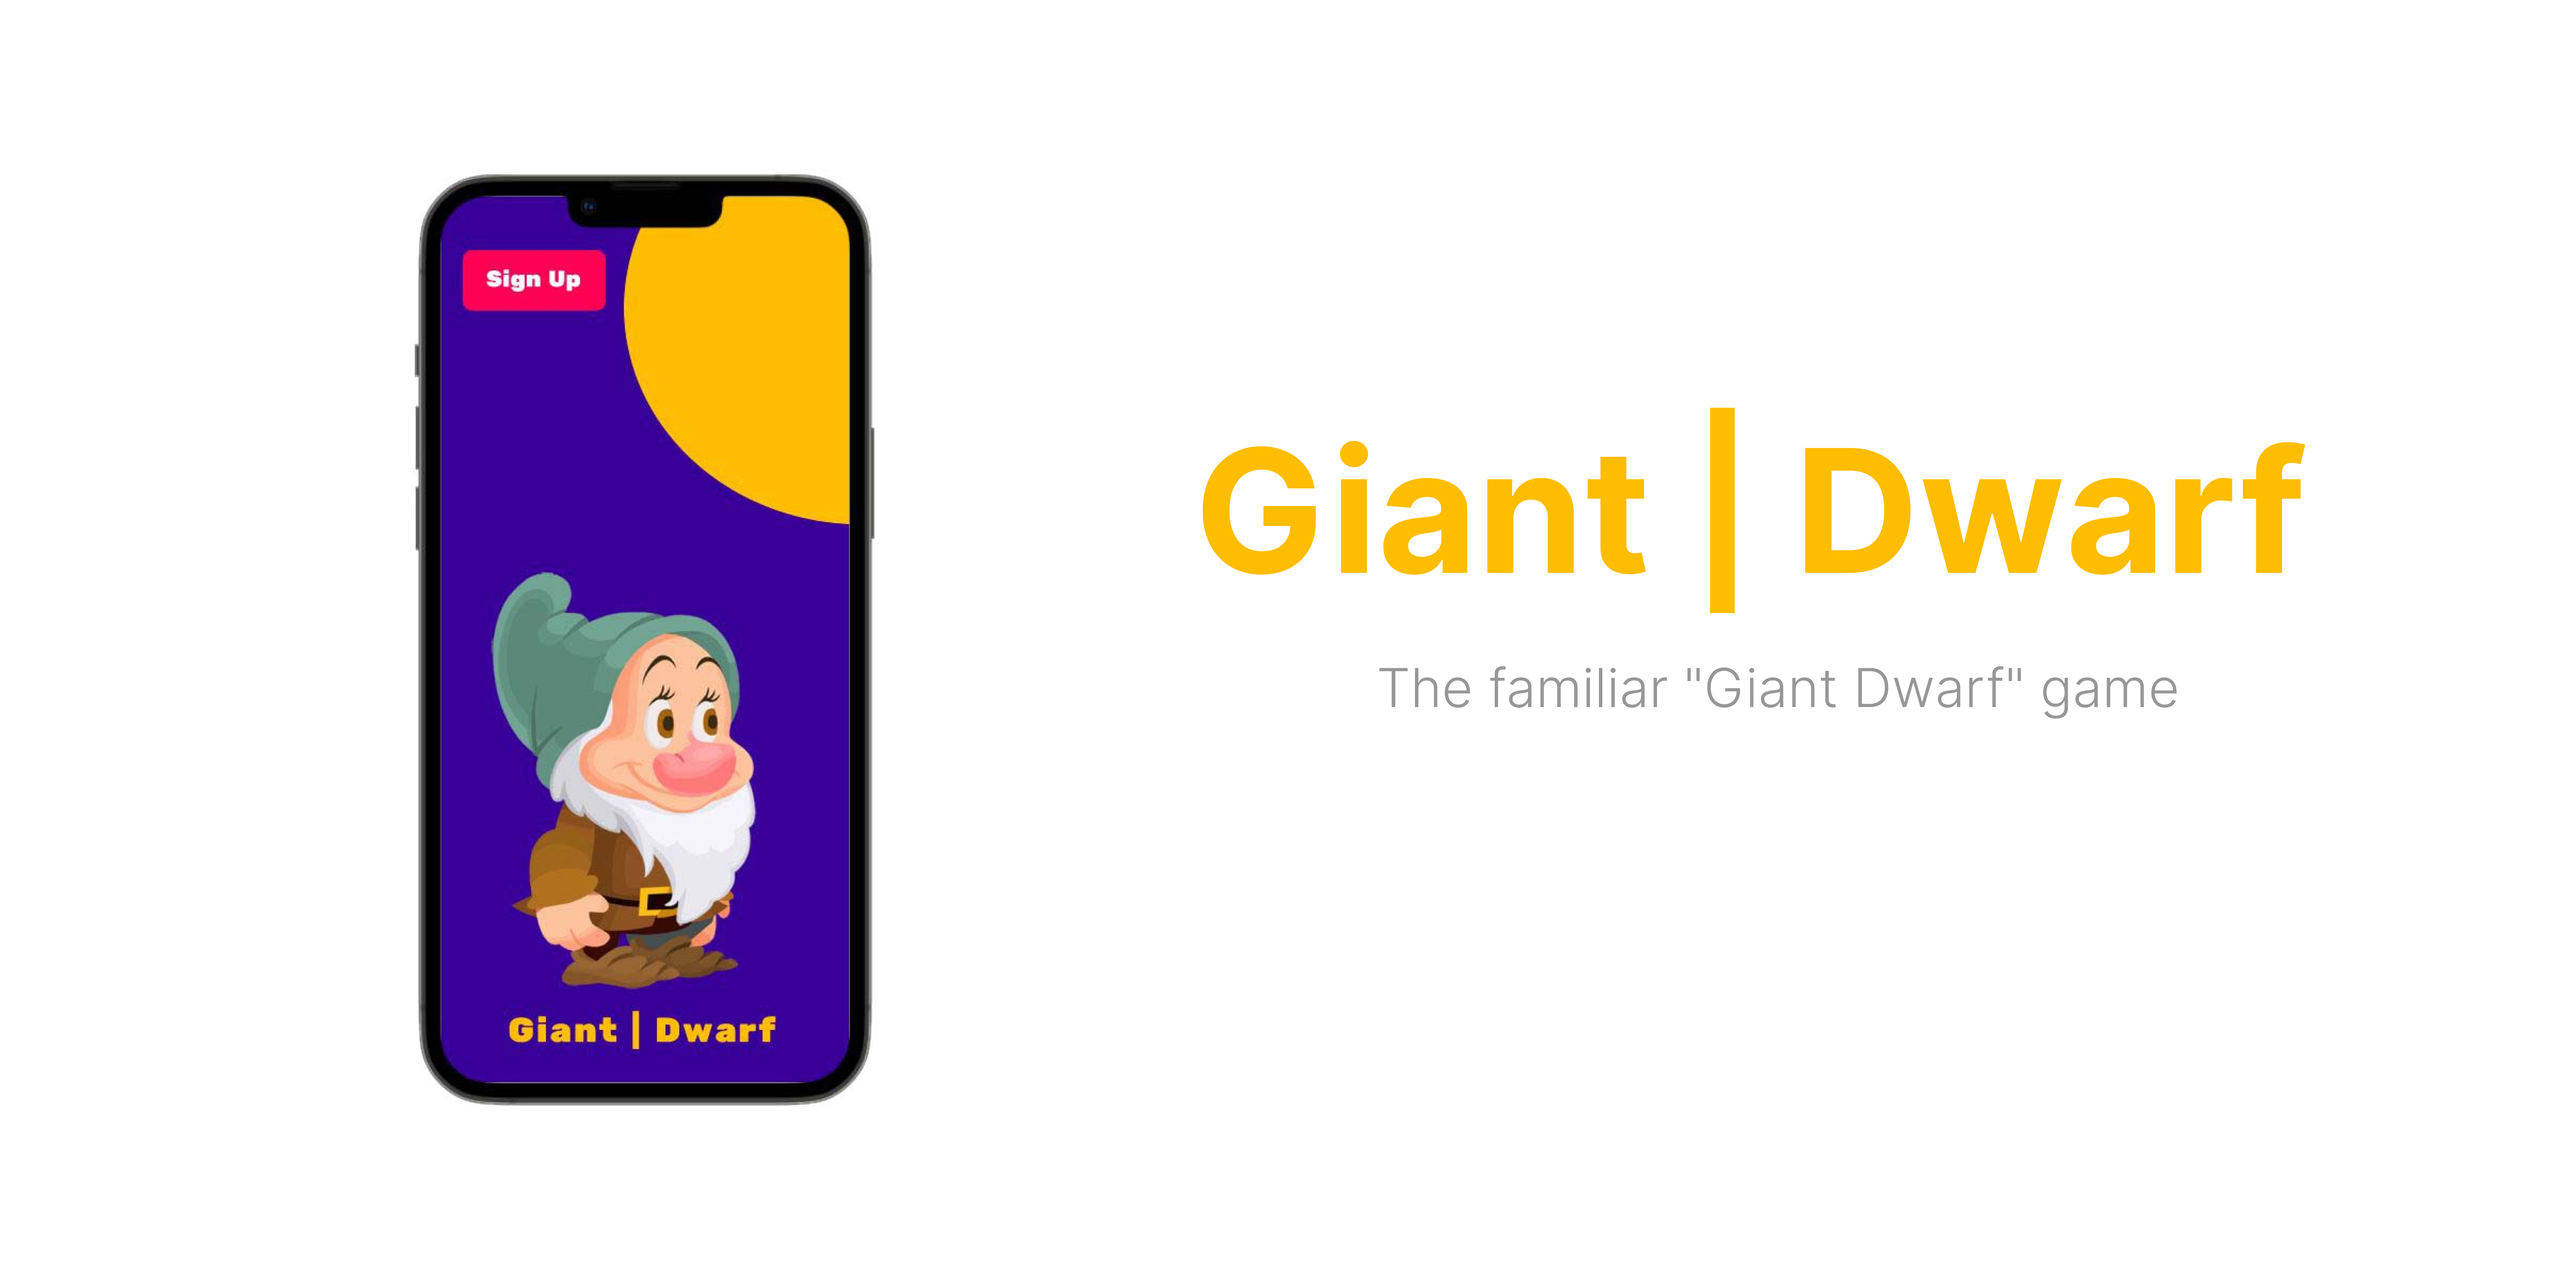
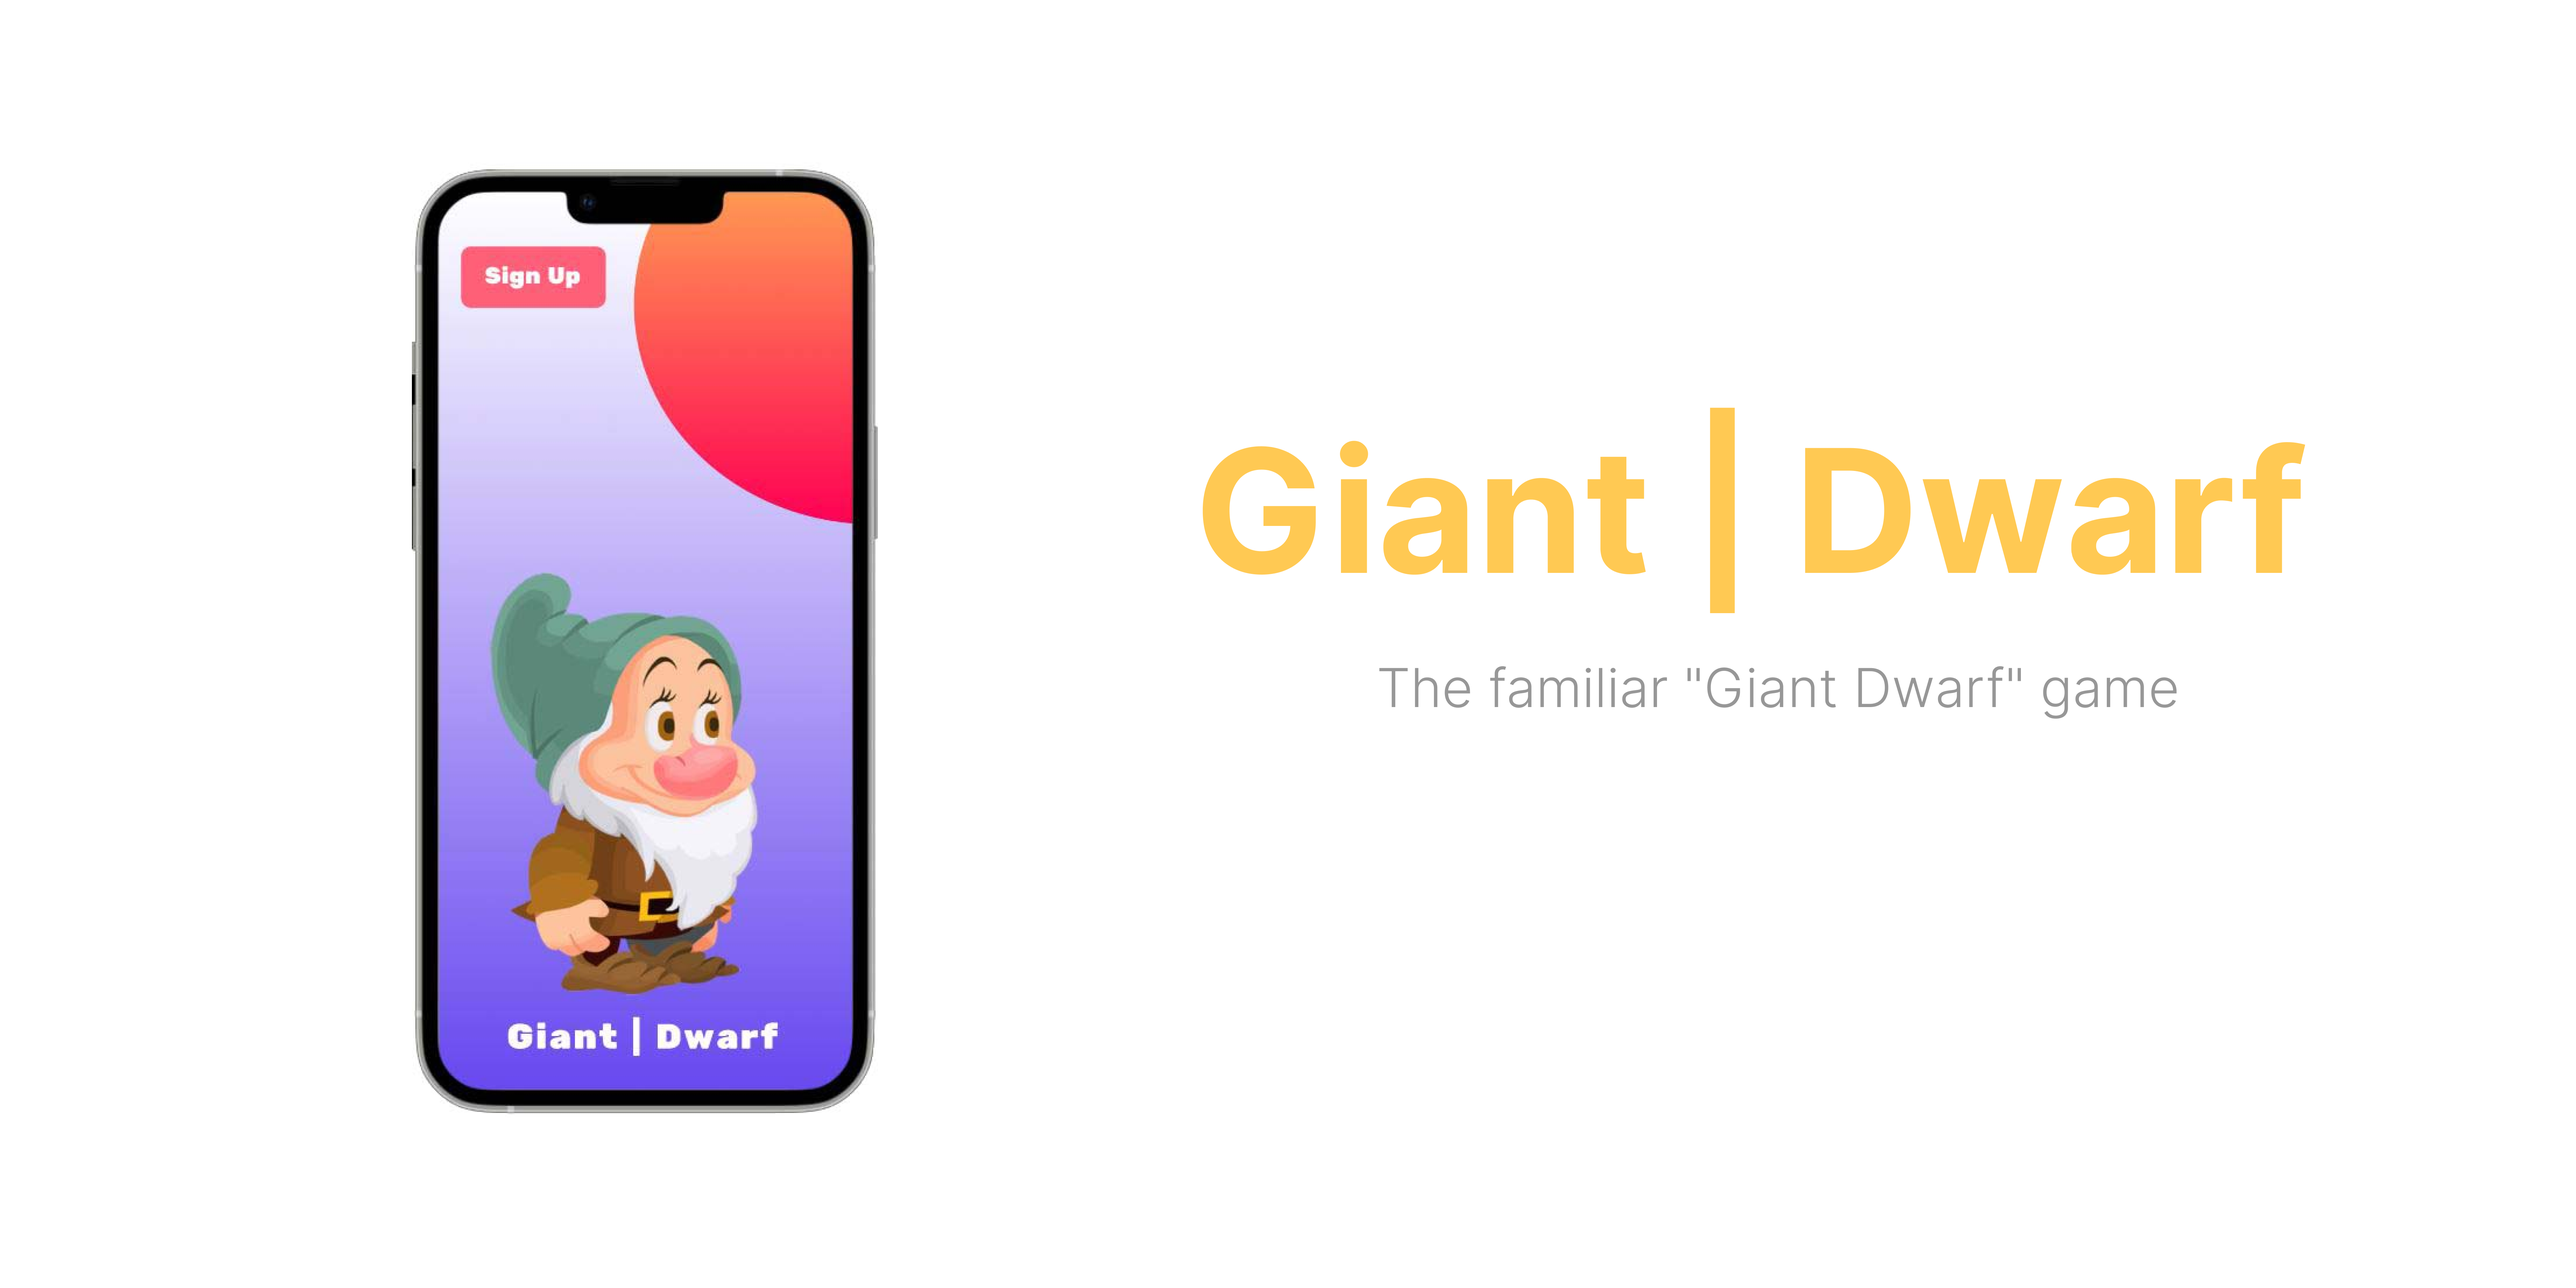
ui

Changed region(s): [[0.1562, 0.125, 0.3438, 0.875], [0.4688, 0.3125, 0.9062, 0.4688]]

diff --git a/giantDwarf.html b/giantDwarf.html
@@ -84,7 +84,7 @@ Zlil                </span>
               <div class="row">
                 <div class="col-md-5 offset-md-1 ">
                   <div class="detail_box">
-                    <h2 style="font-size: 3em; color: rgb(240, 35, 96);">
+                    <h2 style="font-size: 3em; color: #FF5F78;">
                Giant | Dwarf   
                     </h2>
                     <p style="font-size: 1.2em;">
@@ -139,7 +139,7 @@ Zlil                </span>
            as you would need to match every player a dwarf randomly.<br>
            I realized we needed an app and decided to design and develop it by myself. <br>
         </p>
-        <p style="color: rgb(240, 35, 96)">#React #Node j.s #MongoDB, have fun :)</p>
+        <p style="color: #FF5F78">#React #Node j.s #MongoDB, have fun :)</p>
       </div>
        
         </div>
@@ -183,11 +183,11 @@ Zlil                </span>
                                               <div style="text-align:center;">
                                                 <a class="btn" href="https://www.figma.com/proto/puxgVr0cPl6yCbscl1vx9s/giant-dwarf?node-id=2%3A3&scaling=scale-down&page-id=0%3A1&starting-point-node-id=2%3A3" class="btn-1">
                                                 
-                                                    <button style="background-color:  rgb(240, 35, 96); color: white; border-radius: 10px; margin-bottom: 20px; border-color: white; padding: 5px;">UX Prototype</button>
+                                                    <button style="background-color:  #FF5F78; color: white; border-radius: 10px; margin-bottom: 20px; border-color: white; padding: 5px;">UX Prototype</button>
                                                 </a>
                                                 <a class="btn" href="https://github.com/zlilyoffe/GiantDwarf" class="btn-1">
                                               
-                                                  <button style="background-color: #72a493; color: white; border-radius: 10px; margin-bottom: 20px; border-color: white; padding: 5px;">To The Code</button>
+                                                  <button style="background-color: #6749EF; color: white; border-radius: 10px; margin-bottom: 20px; border-color: white; padding: 5px;">To The Code</button>
                                               </a>
                                             </div>
                                             <br>
@@ -262,7 +262,7 @@ Zlil                </span>
                                           
 
   <!-- info section -->
-  <section style="background-color: #390099;" class="info_section ">
+  <section style="background-color: #DA609C;" class="info_section ">
     <div class="container">
       <div class="info_container">
         <div class="info_social">
@@ -291,7 +291,7 @@ Zlil                </span>
   <!-- end info_section -->
 
   <!-- footer section -->
-  <section style="background-color: #390099;" class="container-fluid footer_section">
+  <section style="background-color: #DA609C" class="container-fluid footer_section">
     <div class="container">
       <p>
         &copy; 2022
